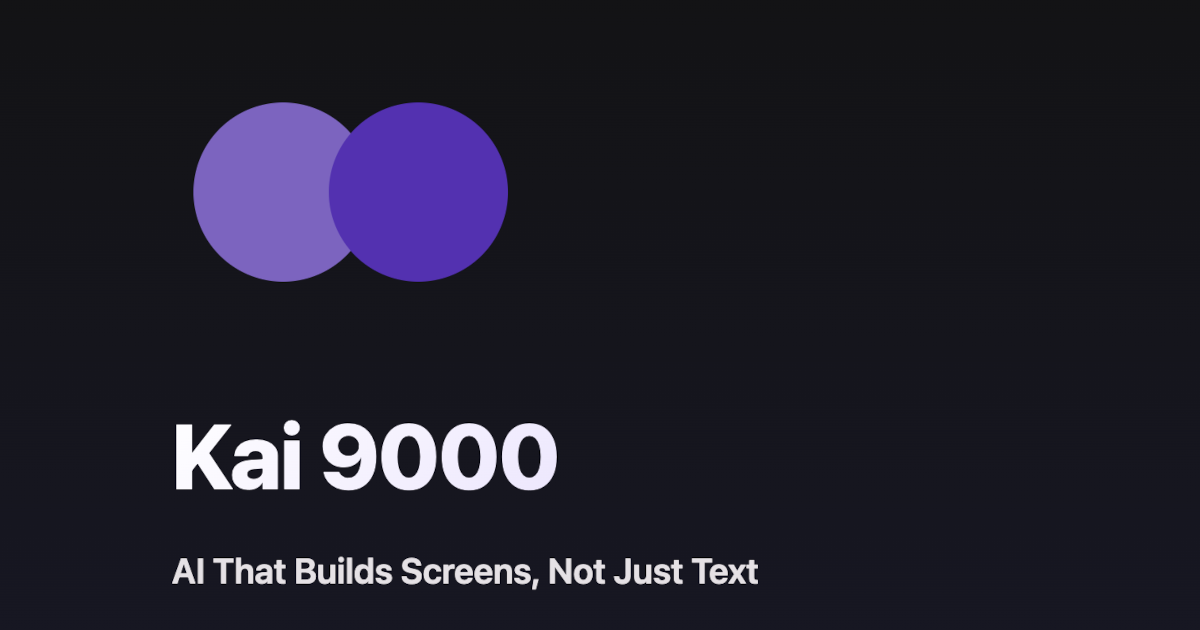
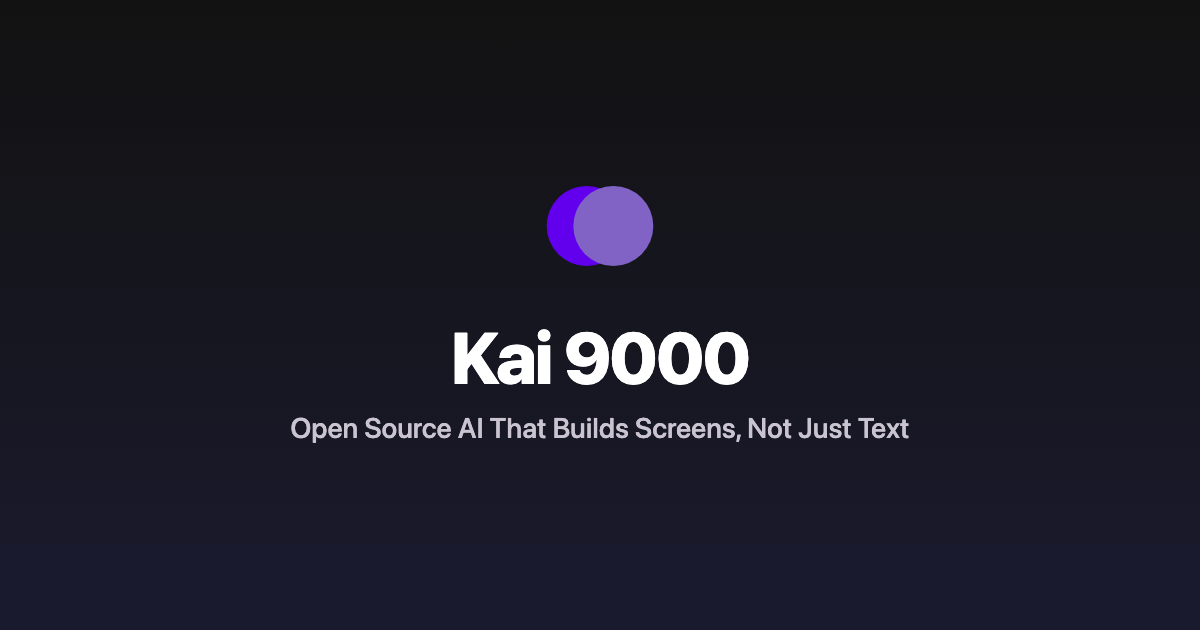
Update mock screenshots and store descriptions

diff --git a/composeApp/src/commonMain/kotlin/com/inspiredandroid/kai/ui/dynamicui/KaiUiRenderer.kt b/composeApp/src/commonMain/kotlin/com/inspiredandroid/kai/ui/dynamicui/KaiUiRenderer.kt
@@ -13,6 +13,7 @@ import androidx.compose.foundation.indication
 import androidx.compose.foundation.interaction.MutableInteractionSource
 import androidx.compose.foundation.layout.Arrangement
 import androidx.compose.foundation.layout.Box
+import androidx.compose.foundation.layout.BoxWithConstraints
 import androidx.compose.foundation.layout.Column
 import androidx.compose.foundation.layout.ExperimentalLayoutApi
 import androidx.compose.foundation.layout.FlowRow
@@ -275,6 +276,8 @@ private fun safeCallback(
 }
 
 private const val MAX_DEPTH = 10
+private const val DEFAULT_IMAGE_HEIGHT = 220
+private const val DEFAULT_IMAGE_ASPECT_RATIO = 1.91f
 
 @Composable
 private fun RenderNode(
@@ -561,28 +564,27 @@ private fun RenderSelect(
 
 @Composable
 private fun RenderImage(node: ImageNode) {
-    val modifier = if (node.aspectRatio != null && node.aspectRatio > 0f) {
-        Modifier.fillMaxWidth().aspectRatio(node.aspectRatio.coerceIn(0.1f, 10f))
-    } else {
-        Modifier.fillMaxWidth().then(
-            if (node.height != null) Modifier.height(node.height.dp) else Modifier,
-        )
-    }
-    val previewBitmap = LocalPreviewImages.current[node.url]
-    if (previewBitmap != null) {
-        Image(
-            bitmap = previewBitmap,
-            contentDescription = node.alt,
-            modifier = modifier.clip(RoundedCornerShape(6.dp)),
-            contentScale = ContentScale.Crop,
-        )
-    } else {
-        coil3.compose.AsyncImage(
-            model = node.url,
-            contentDescription = node.alt,
-            modifier = modifier.clip(RoundedCornerShape(6.dp)),
-            contentScale = ContentScale.Crop,
-        )
+    val height = (node.height ?: DEFAULT_IMAGE_HEIGHT).dp
+    val aspectRatio = (node.aspectRatio ?: DEFAULT_IMAGE_ASPECT_RATIO)
+    BoxWithConstraints(Modifier.fillMaxWidth()) {
+        val width = minOf(maxWidth, height * aspectRatio)
+        val modifier = Modifier.height(width/aspectRatio).width(width).clip(RoundedCornerShape(6.dp))
+        val previewBitmap = LocalPreviewImages.current[node.url]
+        if (previewBitmap != null) {
+            Image(
+                bitmap = previewBitmap,
+                contentDescription = node.alt,
+                modifier = modifier,
+                contentScale = ContentScale.Crop,
+            )
+        } else {
+            coil3.compose.AsyncImage(
+                model = node.url,
+                contentDescription = node.alt,
+                modifier = modifier,
+                contentScale = ContentScale.Crop,
+            )
+        }
     }
 }
 

diff --git a/site/index.html b/site/index.html
@@ -51,7 +51,7 @@
       <div class="hero-text">
         <img src="img/logo_animation.svg" class="hero-mascot">
         <h1>Kai 9000</h1>
-        <p class="tagline">AI That Builds Screens, Not Just Text</p>
+        <p class="tagline">Open Source AI That Builds Screens, Not Just Text</p>
         <p class="sub">An open-source AI powerhouse that runs locally in your pocket. With persistent memory, a heartbeat, tool execution, and an interactive UI that generates full screens — not just chat bubbles.</p>
         <div class="hero-badges">
           <a href="https://apps.apple.com/us/app/kai-ai/id6758148023"><img src="img/app_store_badge.png" alt="Download on the App Store"></a>
